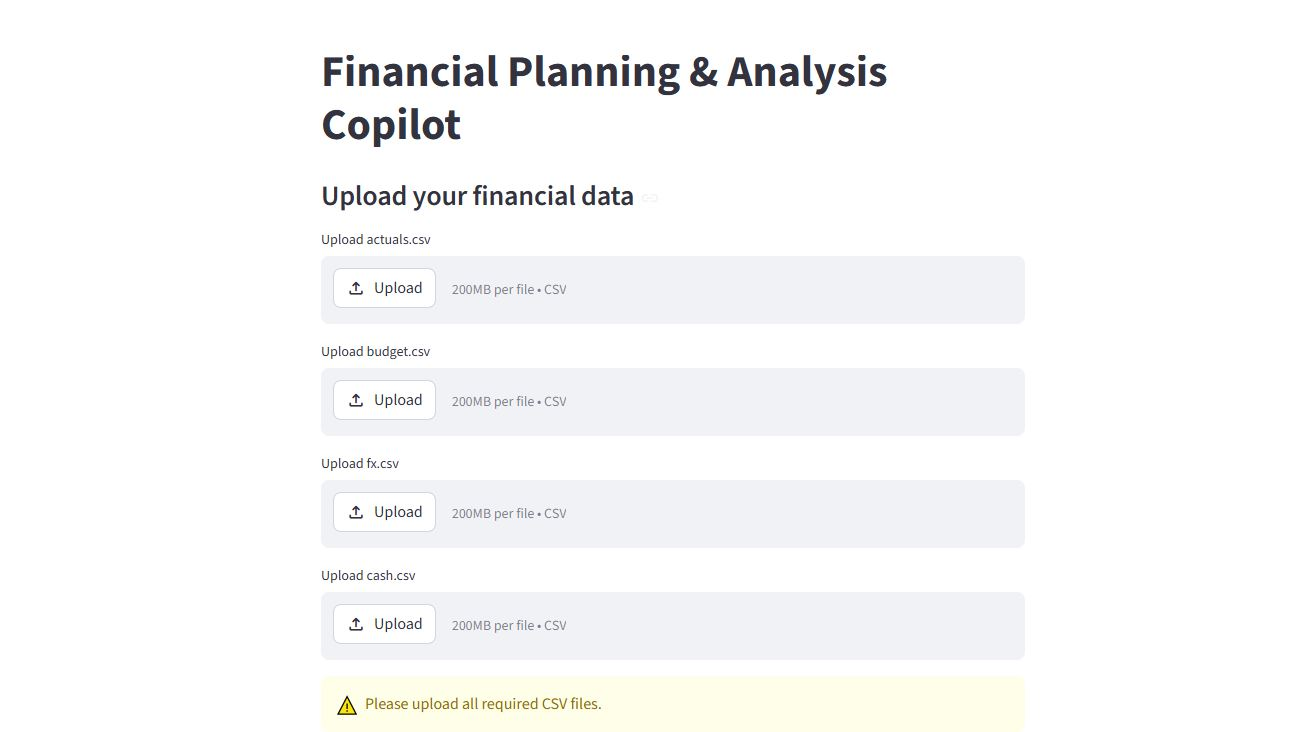
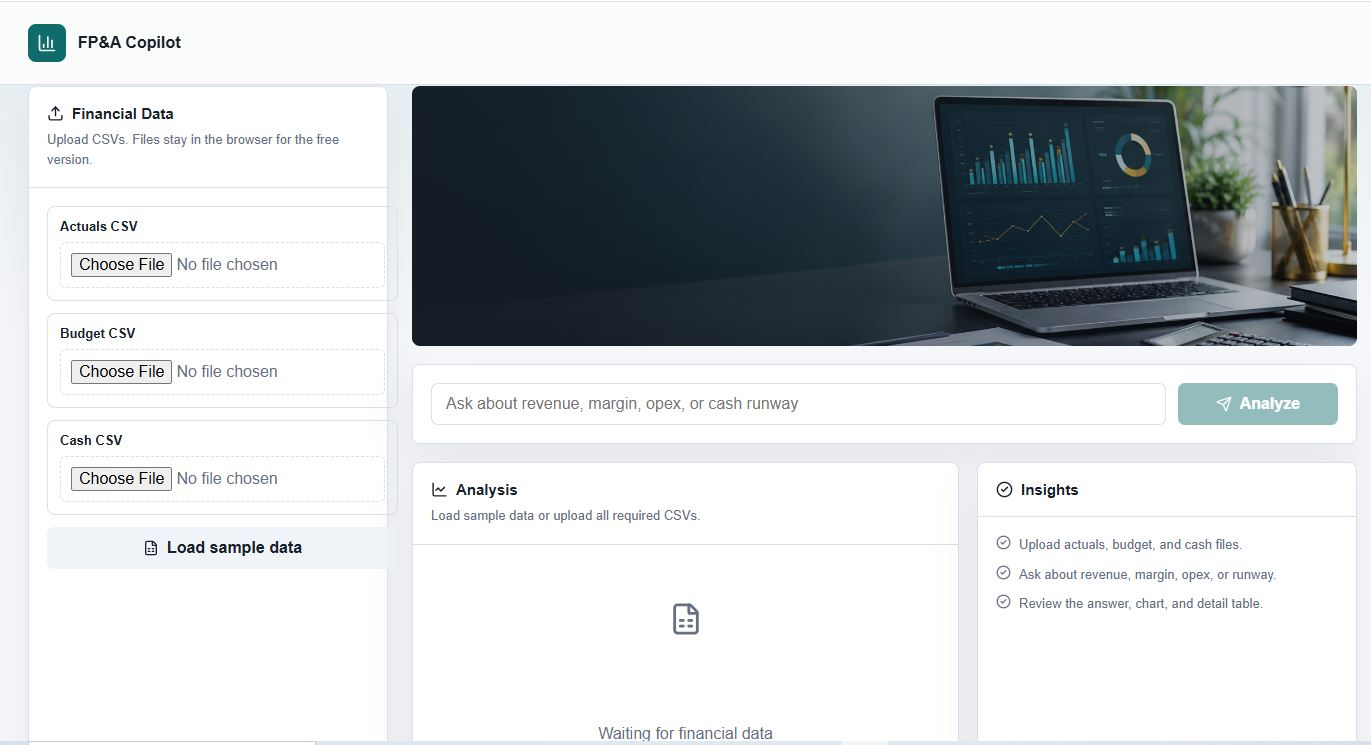
Add README screenshot

diff --git a/README.md b/README.md
@@ -9,11 +9,9 @@ This project combines full-stack development, data analytics, AI agents, and fin
 https://financial-planning-analysis-copilot.vercel.app
 ```
 
-## Overview
+## Screenshot
 
-This repository now includes a Vercel-ready Next.js version of the FP&A Copilot. The deployed app lets users upload financial CSV files, ask business questions, and generate finance answers with charts and detail tables.
-
-The current production app is designed for a student portfolio and avoids paid infrastructure. It runs the analysis in the browser, so it does not require a database, object storage, or paid AI API key.
+![alt text](page.JPG)
 
 ## What The App Does
 
@@ -47,31 +45,10 @@ What is our current cash runway?
 ## Data Format
 
 ### `actuals.csv`
-
-```csv
-month,entity,account,category,amount,currency
-2025-06,US,Revenue,Revenue,140000,USD
-2025-06,US,COGS,COGS,45000,USD
-2025-06,US,Marketing,Opex,17000,USD
-```
-
 ### `budget.csv`
-
-```csv
-month,entity,account,category,amount,currency
-2025-06,US,Revenue,Revenue,145000,USD
-2025-06,US,COGS,COGS,42000,USD
-2025-06,US,Marketing,Opex,16000,USD
-```
-
 ### `cash.csv`
 
-```csv
-month,cash,net_burn
-2025-04,500000,40000
-2025-05,460000,42000
-2025-06,420000,45000
-```
+
 
 ## Current Tech Stack
 
@@ -83,20 +60,6 @@ month,cash,net_burn
 - Zod
 - Lucide React
 - Vercel
-
-## Original Python Prototype
-
-The repo still includes the original Python/Streamlit prototype for reference:
-
-- `app.py`
-- `agent/`
-- `data/`
-- `index/`
-- `utils/`
-- `tests/`
-- `requirements.txt`
-
-That prototype uses Streamlit, Pandas, Plotly, LangGraph, LangChain, Hugging Face Transformers, FAISS, and LlamaIndex.
 
 ## Project Structure
 
@@ -162,38 +125,4 @@ Open:
 http://localhost:3000
 ```
 
-## Quality Checks
 
-```bash
-npm run lint
-npm run typecheck
-npm run build
-```
-
-## Deploy To Vercel
-
-The project is already deployed at:
-
-```text
-https://financial-planning-analysis-copilot.vercel.app
-```
-
-To deploy manually:
-
-```bash
-npx vercel deploy --prod
-```
-
-## Cost
-
-The deployed version is built to run with no required paid services:
-
-- Vercel Hobby hosting
-- Browser-side CSV processing
-- No database
-- No server-side file storage
-- No required LLM API calls
-
-## Security Notes
-
-Do not commit `.env` files, API keys, access tokens, database URLs, or private financial data. Uploaded CSV files are processed in the browser in the current Vercel version.
